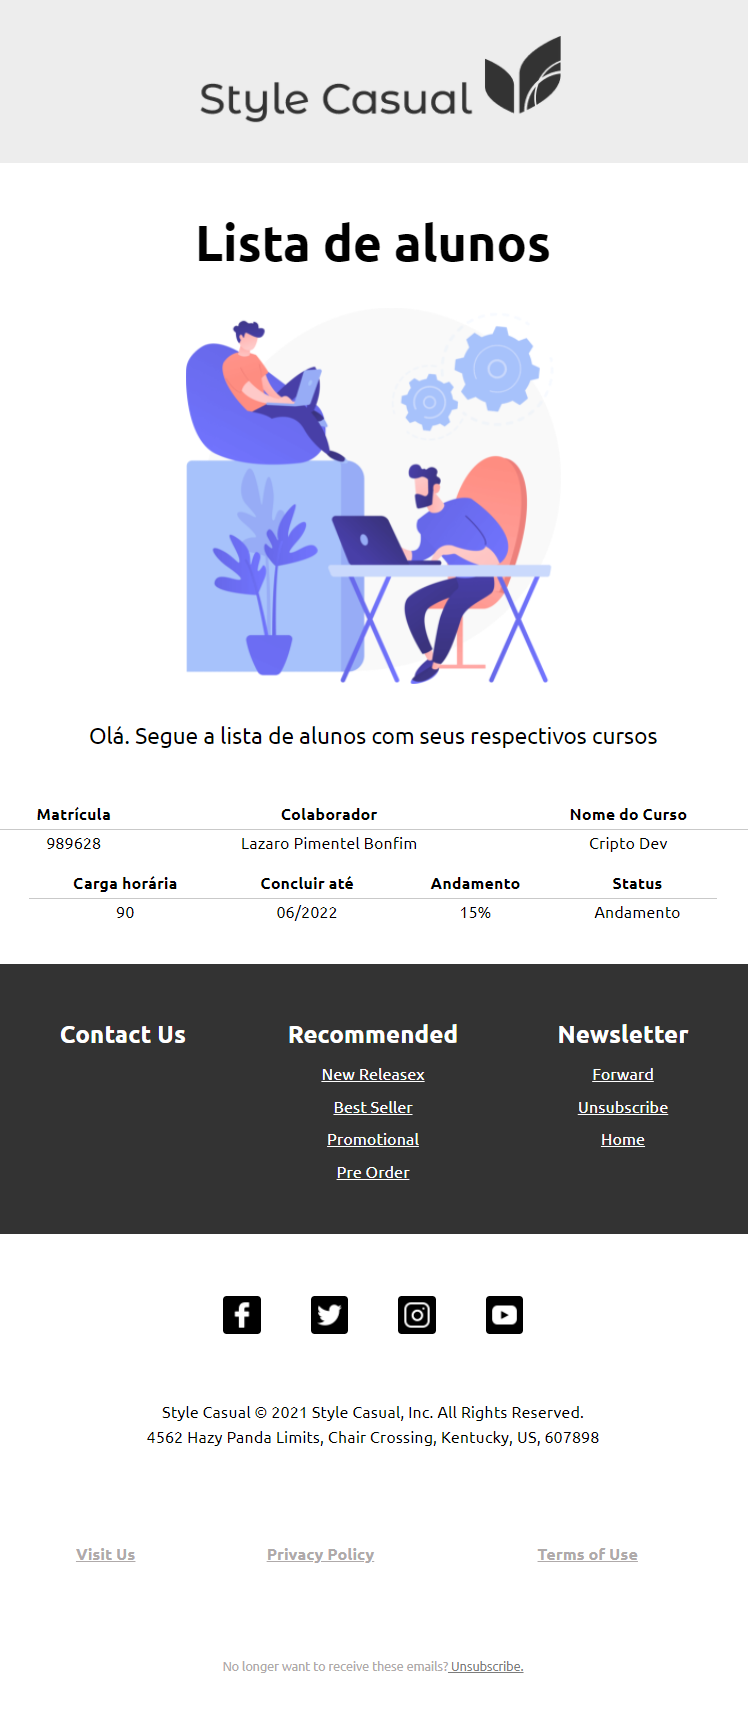
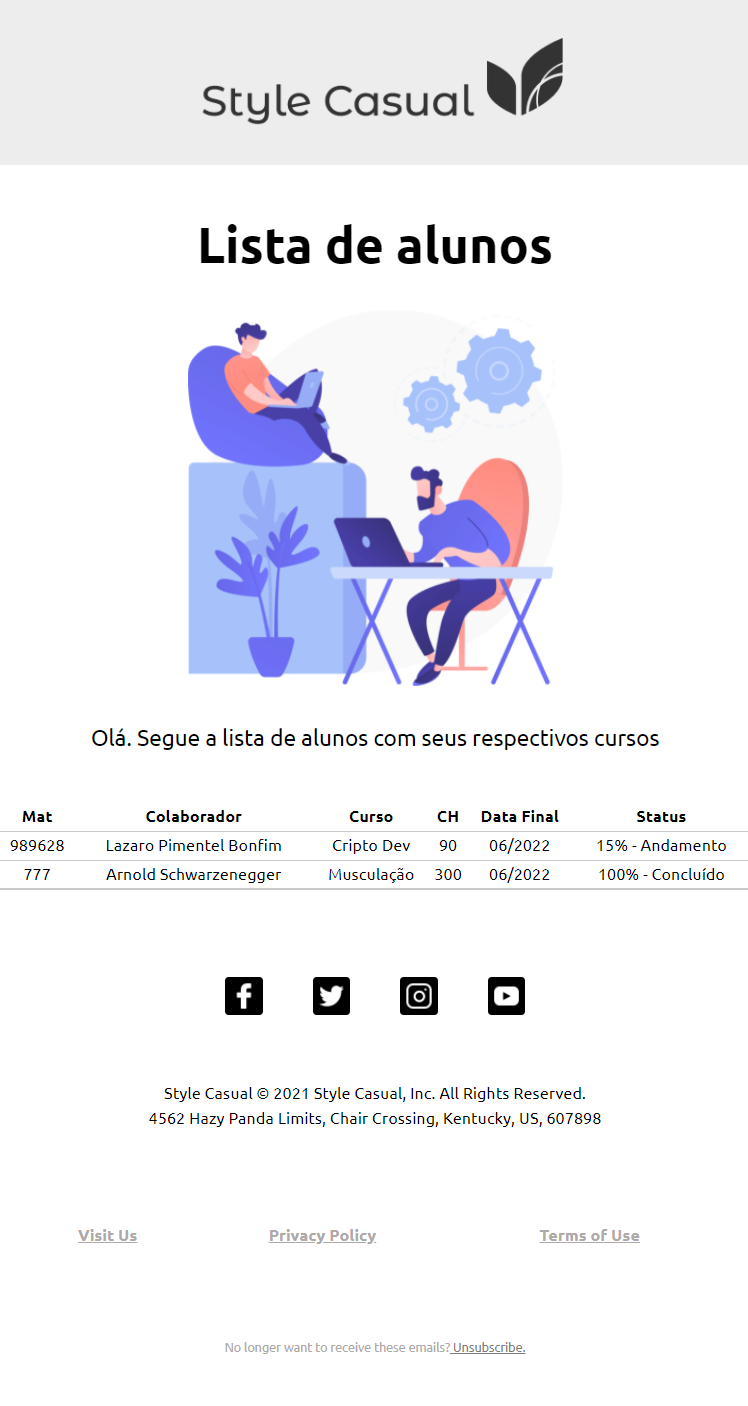
Versao Final

diff --git a/index.html b/index.html
@@ -76,11 +76,6 @@
         width: 600px !important;
         max-width: 600px;
       }
-
-      .mj-column-px-200 {
-        width: 200px !important;
-        max-width: 200px;
-      }
     }
 
   </style>
@@ -93,11 +88,6 @@
     .moz-text-html .mj-column-px-600 {
       width: 600px !important;
       max-width: 600px;
-    }
-
-    .moz-text-html .mj-column-px-200 {
-      width: 200px !important;
-      max-width: 200px;
     }
 
   </style>
@@ -220,101 +210,34 @@
                               <td align="left" style="font-size:0px;padding:0;word-break:break-word;">
                                 <table cellpadding="0" cellspacing="0" width="100%" border="0" style="color:#000000;font-family:Ubuntu, Helvetica, Arial, sans-serif;font-size:13px;line-height:22px;table-layout:auto;width:100%;border:none;">
                                   <tr style="border-bottom:1px solid #c9c9c9;text-align:center;">
-                                    <th>Matrícula</th>
+                                    <th>Mat</th>
                                     <th>Colaborador</th>
-                                    <th>Nome do Curso</th>
+                                    <th>Curso</th>
+                                    <th>CH</th>
+                                    <th>Data Final</th>
+                                    <th>Status</th>
                                   </tr>
-                                  <tr style="text-align:center;">
+                                  <tr style="border-bottom:1px solid #c9c9c9;text-align:center;">
                                     <td>989628</td>
                                     <td>Lazaro Pimentel Bonfim</td>
                                     <td>Cripto Dev</td>
-                                  </tr>
-                                </table>
-                              </td>
-                            </tr>
-                            <tr>
-                              <td align="left" style="font-size:0px;padding:10px 25px;word-break:break-word;">
-                                <table cellpadding="0" cellspacing="0" width="100%" border="0" style="color:#000000;font-family:Ubuntu, Helvetica, Arial, sans-serif;font-size:13px;line-height:22px;table-layout:auto;width:100%;border:none;">
-                                  <tr style="border-bottom:1px solid #c9c9c9;text-align:center;">
-                                    <th>Carga horária</th>
-                                    <th>Concluir até</th>
-                                    <th>Andamento</th>
-                                    <th>Status</th>
-                                  </tr>
-                                  <tr style="text-align:center;">
                                     <td>90</td>
                                     <td>06/2022</td>
-                                    <td>15%</td>
-                                    <td>Andamento</td>
+                                    <td>15% - Andamento</td>
+                                  </tr>
+                                  <tr style="border-bottom:1px solid #c9c9c9;text-align:center;">
+                                    <td>777</td>
+                                    <td>Arnold Schwarzenegger</td>
+                                    <td>Musculação</td>
+                                    <td>300</td>
+                                    <td>06/2022</td>
+                                    <td>100% - Concluído</td>
                                   </tr>
                                 </table>
                               </td>
                             </tr>
                           </tbody>
                         </table>
-                      </td>
-                    </tr>
-                  </tbody>
-                </table>
-              </div>
-              <!--[if mso | IE]></td></tr></table><![endif]-->
-            </td>
-          </tr>
-        </tbody>
-      </table>
-    </div>
-    <!--[if mso | IE]></td></tr></table><![endif]-->
-    <!-- LINKS -->
-    <!--[if mso | IE]><table align="center" border="0" cellpadding="0" cellspacing="0" class="" role="presentation" style="width:600px;" width="600" bgcolor="#333333" ><tr><td style="line-height:0px;font-size:0px;mso-line-height-rule:exactly;"><![endif]-->
-    <div style="background:#333333;background-color:#333333;margin:0px auto;max-width:600px;">
-      <table align="center" border="0" cellpadding="0" cellspacing="0" role="presentation" style="background:#333333;background-color:#333333;width:100%;">
-        <tbody>
-          <tr>
-            <td style="direction:ltr;font-size:0px;padding:20px 0;text-align:center;">
-              <!--[if mso | IE]><table role="presentation" border="0" cellpadding="0" cellspacing="0"><tr><td class="" style="vertical-align:top;width:200px;" ><![endif]-->
-              <div class="mj-column-px-200 mj-outlook-group-fix" style="font-size:0px;text-align:left;direction:ltr;display:inline-block;vertical-align:top;width:100%;">
-                <table border="0" cellpadding="0" cellspacing="0" role="presentation" style="vertical-align:top;" width="100%">
-                  <tbody>
-                    <tr>
-                      <td align="center" style="font-size:0px;padding:10px 25px;word-break:break-word;">
-                        <div style="font-family:Ubuntu, Helvetica, Arial, sans-serif;font-size:13px;line-height:1;text-align:center;color:#000000;">
-                          <h2 style="color: #fff">Contact Us<h2>
-                        </div>
-                      </td>
-                    </tr>
-                  </tbody>
-                </table>
-              </div>
-              <!--[if mso | IE]></td><td class="" style="vertical-align:top;width:200px;" ><![endif]-->
-              <div class="mj-column-px-200 mj-outlook-group-fix" style="font-size:0px;text-align:left;direction:ltr;display:inline-block;vertical-align:top;width:100%;">
-                <table border="0" cellpadding="0" cellspacing="0" role="presentation" style="vertical-align:top;" width="100%">
-                  <tbody>
-                    <tr>
-                      <td align="center" style="font-size:0px;padding:10px 25px;word-break:break-word;">
-                        <div style="font-family:Ubuntu, Helvetica, Arial, sans-serif;font-size:13px;line-height:1;text-align:center;color:#000000;">
-                          <h2 style="color: #fff">Recommended</h2>
-                          <p><a style="color: #fff" href="">New Releasex</a></p>
-                          <p><a style="color: #fff" href="">Best Seller</a></p>
-                          <p><a style="color: #fff" href="">Promotional</a></p>
-                          <p><a style="color: #fff" href="">Pre Order</a></p>
-                        </div>
-                      </td>
-                    </tr>
-                  </tbody>
-                </table>
-              </div>
-              <!--[if mso | IE]></td><td class="" style="vertical-align:top;width:200px;" ><![endif]-->
-              <div class="mj-column-px-200 mj-outlook-group-fix" style="font-size:0px;text-align:left;direction:ltr;display:inline-block;vertical-align:top;width:100%;">
-                <table border="0" cellpadding="0" cellspacing="0" role="presentation" style="vertical-align:top;" width="100%">
-                  <tbody>
-                    <tr>
-                      <td align="center" style="font-size:0px;padding:10px 25px;word-break:break-word;">
-                        <div style="font-family:Ubuntu, Helvetica, Arial, sans-serif;font-size:13px;line-height:1;text-align:center;color:#000000;">
-                          <h2 style="color: #fff">Newsletter</h2>
-                          <p><a style="color: #fff" href="">Forward</a></p>
-                          <p><a style="color: #fff" href="">Unsubscribe</a></p>
-                          <p><a style="color: #fff" href="">Home</a></p>
-                        </div>
                       </td>
                     </tr>
                   </tbody>
